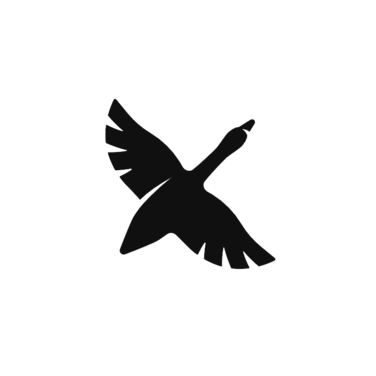
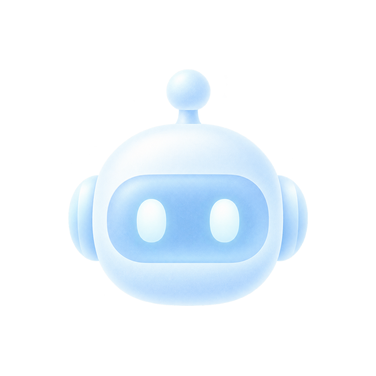
fix(plugins): use shared Agents artwork for coding agents

Changed region(s): [[0.1755, 0.1755, 0.8191, 0.8191]]

diff --git a/src/app/Settings.module.css b/src/app/Settings.module.css
@@ -324,13 +324,13 @@
 }
 
 @media (hover: hover) and (prefers-reduced-motion: no-preference) {
-  .pluginIcon[data-branded] img:not([data-official-mark]) {
+  .pluginIcon[data-branded] img {
     transition: transform calc(var(--duration-settle) * 2)
       linear(0, 0.24, 0.65, 0.95, 1.08, 1.09, 1.05, 1.01, 0.99, 0.99, 1);
   }
 
-  .pluginIcon[data-branded]:hover img:not([data-official-mark]),
-  .pluginRow:hover .pluginIcon[data-branded] img:not([data-official-mark]) {
+  .pluginIcon[data-branded]:hover img,
+  .pluginRow:hover .pluginIcon[data-branded] img {
     transform: scale(1.08);
     transition-duration: var(--duration-settle);
   }
@@ -341,8 +341,7 @@
   --plugin-icon-gradient: var(--art-plugin-communication-gradient);
 }
 
-.pluginIcon[data-branded][data-category="communication"]
-  img:not([data-official-mark]) {
+.pluginIcon[data-branded][data-category="communication"] img {
   filter: hue-rotate(-12deg) saturate(0.8);
 }
 
@@ -350,8 +349,7 @@
   --plugin-icon-gradient: var(--art-plugin-agents-gradient);
 }
 
-.pluginIcon[data-branded][data-category="agents"]
-  img:not([data-official-mark]) {
+.pluginIcon[data-branded][data-category="agents"] img {
   filter: hue-rotate(25deg) saturate(0.8);
 }
 
@@ -359,8 +357,7 @@
   --plugin-icon-gradient: var(--art-plugin-agent-tools-gradient);
 }
 
-.pluginIcon[data-branded][data-category="agent-tools"]
-  img:not([data-official-mark]) {
+.pluginIcon[data-branded][data-category="agent-tools"] img {
   filter: hue-rotate(75deg) saturate(0.8);
 }
 
@@ -371,7 +368,7 @@
 }
 
 .pluginIcon[data-branded][data-category="developer-tools-and-integrations"]
-  img:not([data-official-mark]) {
+  img {
   filter: hue-rotate(126deg) saturate(0.8);
 }
 
@@ -379,8 +376,7 @@
   --plugin-icon-gradient: var(--art-plugin-people-and-communities-gradient);
 }
 
-.pluginIcon[data-branded][data-category="people-and-communities"]
-  img:not([data-official-mark]) {
+.pluginIcon[data-branded][data-category="people-and-communities"] img {
   filter: hue-rotate(-196deg) saturate(0.8);
 }
 
@@ -388,8 +384,7 @@
   --plugin-icon-gradient: var(--art-plugin-productivity-gradient);
 }
 
-.pluginIcon[data-branded][data-category="productivity"]
-  img:not([data-official-mark]) {
+.pluginIcon[data-branded][data-category="productivity"] img {
   filter: hue-rotate(-169deg) saturate(0.8);
 }
 
@@ -521,7 +516,7 @@
 }
 
 @media (prefers-reduced-motion: no-preference) {
-  .pluginAsideIdentity .pluginIcon[data-branded] img:not([data-official-mark]) {
+  .pluginAsideIdentity .pluginIcon[data-branded] img {
     animation: plugin-artwork-in calc(var(--duration-settle) * 3)
       var(--easing-enter);
   }

diff --git a/src/app/Settings.tsx b/src/app/Settings.tsx
@@ -40,7 +40,6 @@ import { RecoveryScreen } from "./RecoveryScreen";
 import styles from "./Settings.module.css";
 import {
   GithubLogoIcon,
-  OpenAILogoIcon,
   CheckCircleIcon,
   SparklesIcon,
   SquaresFourIcon,
@@ -164,10 +163,7 @@ function groupPlugins(plugins: readonly PluginInfo[]) {
   ];
 }
 
-const bundledGlyphs = new Map([
-  ["buzz.github", GithubLogoIcon],
-  ["buzz.codex", OpenAILogoIcon],
-]);
+const bundledGlyphs = new Map([["buzz.github", GithubLogoIcon]]);
 
 function PluginIcon({
   plugin,
@@ -196,17 +192,7 @@ function PluginIcon({
       {Glyph ? (
         <Glyph size="50%" />
       ) : url && url !== failedUrl ? (
-        <img
-          src={url}
-          alt=""
-          data-official-mark={
-            (plugin.source === "bundled" &&
-              (plugin.manifest.id === "buzz.claude-code" ||
-                plugin.manifest.id === "buzz.goose")) ||
-            undefined
-          }
-          onError={() => setFailedUrl(url)}
-        />
+        <img src={url} alt="" onError={() => setFailedUrl(url)} />
       ) : (
         <SquaresFourIcon size={size} />
       )}

diff --git a/NOTICE.md b/NOTICE.md
@@ -90,26 +90,15 @@ Nous Research copyright notice.
 
 ## Plugin catalog artwork
 
-The other bundled plugin PNG artwork in `src/bundled/*/icon.png` was created
-by Taylor Ho using GPT Image 2.5 and supplied for Buzz.
+The bundled plugin PNG artwork in `src/bundled/*/icon.png` was created by
+Taylor Ho using GPT Image 2.5 and supplied for Buzz. Claude, Codex and Goose
+reuse the Agents artwork; their catalog tiles contain no third-party agent marks.
 
-GitHub and Codex catalog tiles use Tabler's `brand-github` and `brand-openai`
-glyphs. Unchanged paths and proportions render flat white at half-tile size.
-No effects are applied to the glyphs; only the tile behind them has a gradient.
-Tabler Icons 3.46.0: https://tabler.io/icons. The MIT license below covers the
-icon files, not trademark rights or endorsement by their owners.
-
-`src/bundled/claude-code/icon.png` is the official Claude Spark in Clay
-(#D97757), supplied from Anthropic's press kit: https://www.anthropic.com/press-kit.
-`src/bundled/goose/icon.png` is the official Goose mark (#101010), supplied from
-https://github.com/aaif-goose/goose/tree/main/documentation/static/img.
-Both are rasterized proportionally onto transparent 376×376 canvases without
-recoloring or effects. Their category gradients are separate tile backgrounds.
-Trademark rights remain with their respective owners. Anthropic's written logo
-approval and the applicable LF Projects trademark permission remain outstanding;
-asset provenance and the Tabler license do not establish those permissions.
-See https://www.anthropic.com/legal/trademark-guidelines and
-https://lfprojects.org/policies/trademark-policy/.
+The GitHub catalog tile uses Tabler's `brand-github` glyph with unchanged paths
+and proportions, flat white at half-tile size and without glyph effects. Only
+the tile behind it has a gradient. Tabler Icons 3.46.0: https://tabler.io/icons.
+The MIT license below covers the icon file, not trademark rights or endorsement.
+GitHub is a trademark of GitHub, Inc.
 
 MIT License
 
